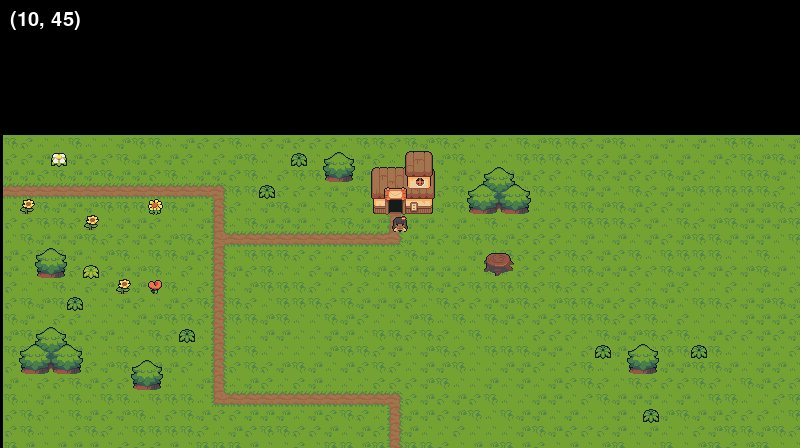
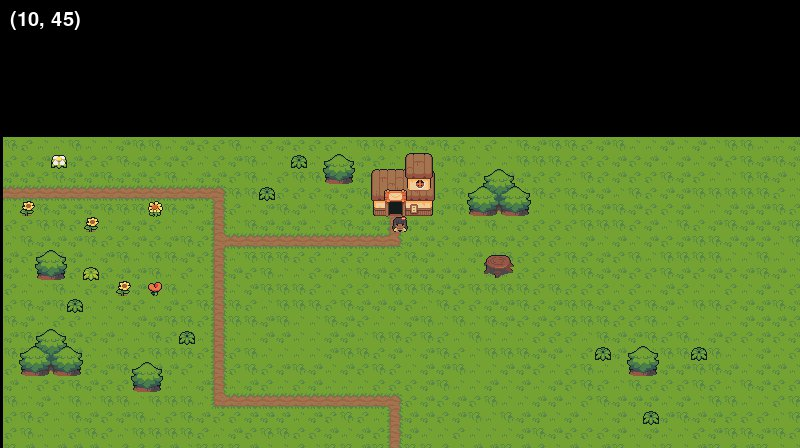
fixed tiled issue

diff --git a/Levels/LevelOne/tiles/grass tile.tsx b/Levels/LevelOne/tiles/grass tile.tsx
@@ -1,4 +1,4 @@
 <?xml version="1.0" encoding="UTF-8"?>
 <tileset version="1.9" tiledversion="1.9.2" name="grass tile" tilewidth="31" tileheight="32" tilecount="1" columns="1">
- <image source="../../../../../Downloads/grass tile.png" width="31" height="33"/>
+ <image source="../images/tiles/grass tile.png" width="31" height="33"/>
 </tileset>

diff --git a/Levels/LevelOne/tiles/mushrooms.tsx b/Levels/LevelOne/tiles/mushrooms.tsx
@@ -1,4 +1,4 @@
 <?xml version="1.0" encoding="UTF-8"?>
 <tileset version="1.9" tiledversion="1.9.2" name="mushrooms" tilewidth="32" tileheight="32" tilecount="2" columns="2">
- <image source="../../../../../Downloads/mushrooms.png" width="64" height="32"/>
+ <image source="../images/tiles/mushrooms.png" width="64" height="32"/>
 </tileset>

diff --git a/Levels/LevelOne/levelOne.py b/Levels/LevelOne/levelOne.py
@@ -182,8 +182,10 @@ my_game = Game()
 
 
 
+
 running = True
-while running:
+
+def run_level_one():
     for event in pygame.event.get():
         if event.type == pygame.QUIT:
             running = False 
@@ -217,6 +219,3 @@ while running:
     pygame.display.flip()
 
     clock.tick(FPS)
-
-
-pygame.quit()
